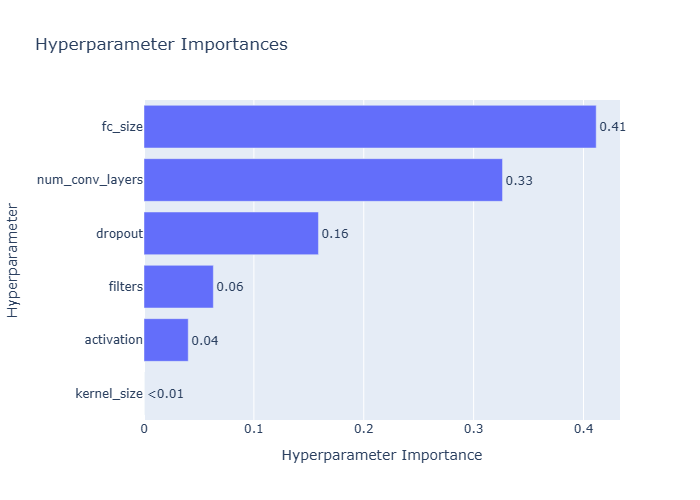
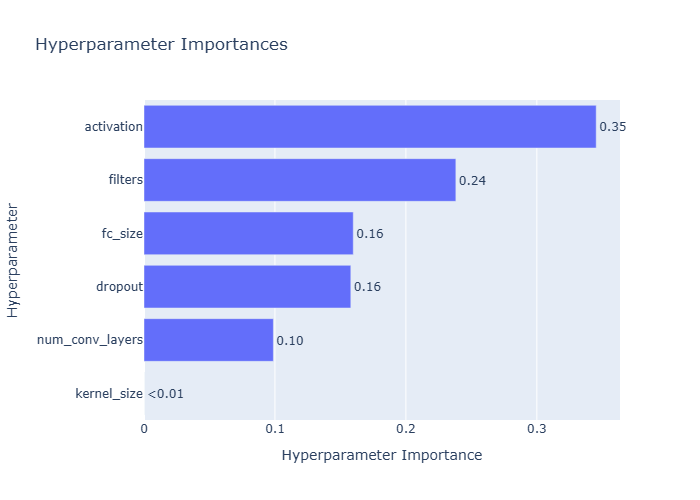
Completed all experiment setups

diff --git a/src/main.py b/src/main.py
@@ -23,26 +23,29 @@ MODELS = {
     "ResNet": ResNet,
     "VGG16": VGG16,
 }
+TR_SPLITS = [0, 480]
 
 def expr3():
-    split = 480
-    lang = "ar"
+    split = 100
+    lang = "ur"
     model_name = 'CNN'
-    weights_path = "weights\BasicCNN_english_model.pth"
-    json_path = None
 
+    base_model_name = "ar480_CNN"
+    weights_path = ROOT / "weights" / f"{base_model_name}.pth"
+    json_path = ROOT / "results" / "metrics" / f"{base_model_name}.json"
+    base_lang = base_model_name[:2]
     # Input parameter and data setup
     optimal_params = json.load(open(json_path, 'r'))['Best_Hyperparameters']
     train_loader, val_loader, test_loader = load_dataset(lang, class_n=split)
     combined_loader = combine_loaders(train_loader, val_loader)
+
     # Model finetuning and evaluation
-    model = finetune(model_name, weights_path, DATASET_NCLS[lang], combined_loader, optimal_params)
+    model = finetune(model_name, weights_path, DATASET_NCLS[lang], combined_loader, optimal_params,  DATASET_NCLS[base_lang])
     res = evaluate(model, test_loader)
 
-    base_model = "en480_CNN"
-    title = f"{lang}{split}_{base_model}-ft"
+    title = f"{lang}{split}_{base_model_name}-ft"
     save_output(res, optimal_params, title, ROOT)
-    save_model(model, model_name, lang, split, ROOT)
+    save_model(model, title, ROOT)
 
 
 def expr2():
@@ -93,12 +96,42 @@ def main():
 
 
 
+def all_train():
+
+    # Train model per lang per split
+    for model_name in MODELS.keys():
+        for lang in DATASET_NCLS.keys():
+            for split in TR_SPLITS:
+
+                # Special Condition for english dataset:
+                if lang == 'en' and split == 0:
+                    # Tune on reduced data, train on full data
+                    train_loader, val_loader, test_loader = load_dataset(lang, class_n=480)
+                    optimal_params = tune(model_name, train_loader, val_loader, DATASET_NCLS[lang], lang, split)
+                    train_loader, val_loader, test_loader = load_dataset(lang, class_n=0)
+                else:
+                    train_loader, val_loader, test_loader = load_dataset(lang, class_n=split)
+                    optimal_params = tune(model_name, train_loader, val_loader, DATASET_NCLS[lang], lang, split)
+                
+                print(optimal_params)
+
+                combined_loader = combine_loaders(train_loader, val_loader)
+                model = train(model_name=model_name, tr_loader=combined_loader, n_classes=DATASET_NCLS[lang], optimal_params=optimal_params)
+                res = evaluate(model, test_loader)
+
+                title = f"{lang}{split}_{model_name}"
+                save_output(res, optimal_params, title, ROOT)
+                save_model(model, title, ROOT)
+
+    print("Completed all baselines model training")
+
 def testing():
     model_name = 'LeNet5'
     split = 480
     for lang in ['ar']:
         train_loader, val_loader, test_loader = load_dataset(lang, class_n=split)
         optimal_params = tune(model_name, train_loader, val_loader, DATASET_NCLS[lang], lang, split)
+        print(optimal_params)
 
         combined_loader = combine_loaders(train_loader, val_loader)
         model = train(model_name=model_name, tr_loader=combined_loader, n_classes=DATASET_NCLS[lang], optimal_params=optimal_params)
@@ -106,7 +139,7 @@ def testing():
 
         title = f"{lang}{split}_{model_name}"
         save_output(res, optimal_params, title, ROOT)
-        save_model(model, model_name, lang, split, ROOT)
+        save_model(model, title, ROOT)
 
 
 if __name__ == "__main__":

diff --git a/src/train.py b/src/train.py
@@ -22,6 +22,7 @@ from torch.utils.data import DataLoader
 # ********************************
 # CONSTANTS, VARIABLES AND SETUP
 # ********************************
+FT_EPOCHS = 30
 EPOCHS = 15
 N_TRIALS = 5
 WEIGHTS_DIR = "weights"
@@ -66,10 +67,10 @@ def _train(model, optimizer, criterion, train_loader, log=False):
     return tr_loss
 
 
-def _train_loop(model, optimizer, criterion, train_loader):
+def _train_loop(model, optimizer, criterion, train_loader, epochs=EPOCHS):
     early_stopping = EarlyStopping()
     total_time = 0.0
-    for epoch in range(EPOCHS):
+    for epoch in range(epochs):
         start_time = time()
         # Training & Validation
         print(f"E={epoch + 1}", end="\t")
@@ -174,7 +175,7 @@ def _update_classifier(model, n_letters):
     # Update classifier
     for param in model.fcf.parameters():
         param.requires_grad = True
-
+    return model
 
 # ********************************
 # INTERFACE FUNCTIONS
@@ -207,17 +208,18 @@ def evaluate(model, test_loader):
     return results
     
 
-def finetune(model_name, weights_path, n_letters, tr_loader, optimal_params):
-    # Retrieve and update model
-    model = MODELS[model_name]
+def finetune(model_name, weights_path, n_letters, tr_loader, optimal_params, nclasses):
+    # Retrieve, initialize and update model
+    model = get_model(model_name, optimal_params, nclasses)
     model.load_state_dict(torch.load(weights_path))
     _update_classifier(model, n_letters)
+    model.nclasses = n_letters
     model.to(device)
 
     # Criterion and optimizer
     criterion = torch.nn.CrossEntropyLoss()
     optimizer = get_optimizer(model_name, model, optimal_params)
-    _train_loop(model, optimizer, criterion, tr_loader)
+    _train_loop(model, optimizer, criterion, tr_loader, epochs=FT_EPOCHS)
     return model
     
 
@@ -240,8 +242,6 @@ def tune(model_name, tr_loader, val_loader, n_classes, lang, split):
 
     for name, fig in figs.items():
         fig.write_image(fig_dir / f"{lang}{split}_{model_name}_{name}.png")
-
-    
     return study.best_params
 
 

diff --git a/src/utils/utils.py b/src/utils/utils.py
@@ -34,9 +34,8 @@ class EarlyStopping:
 # ********************************
 # HELPER FUNCTIONS (INTERFACE)
 # ********************************
-def save_model(model, model_name, lang, split, root, finetune=False):
-    tag = 'ft-' if finetune else ""
-    path = root / 'weights' / f"{lang}{split}_{tag}{model_name}_mdl.pth"
+def save_model(model, title, root):
+    path = root / 'weights' / f"{title}.pth"
     torch.save(model.state_dict(), path)
 
 

diff --git a/src/models/CNN.py b/src/models/CNN.py
@@ -60,9 +60,9 @@ class CNN(nn.Module):
     def forward(self, x):
         x = self.feature_extractor(x)
         x = torch.flatten(x, 1)
-        x = torch.relu(self.fcf(x))
+        x = torch.relu(self.fc(x))
         x = self.dropout(x)
-        x = self.output_layer(x)
+        x = self.fcf(x)
         return x
 
 # Pytorch Basic CNN Model:
